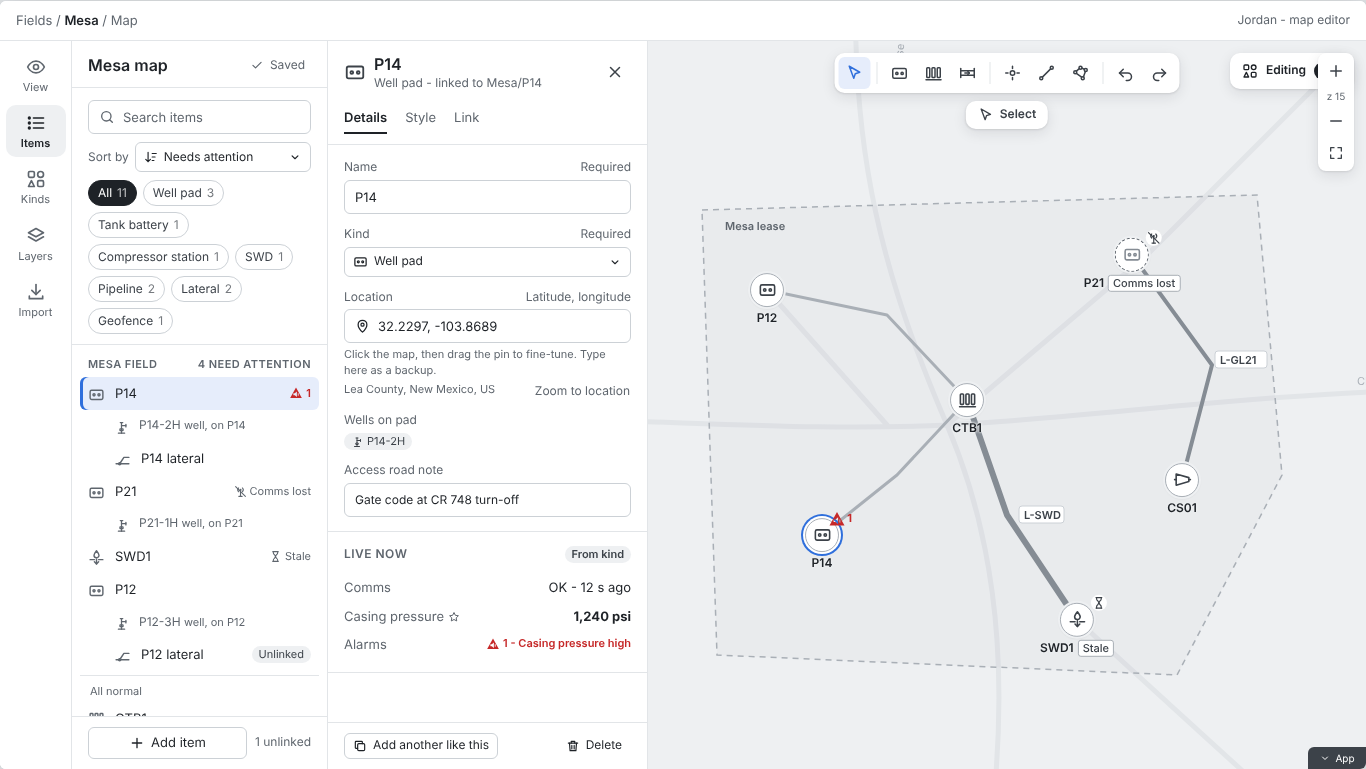
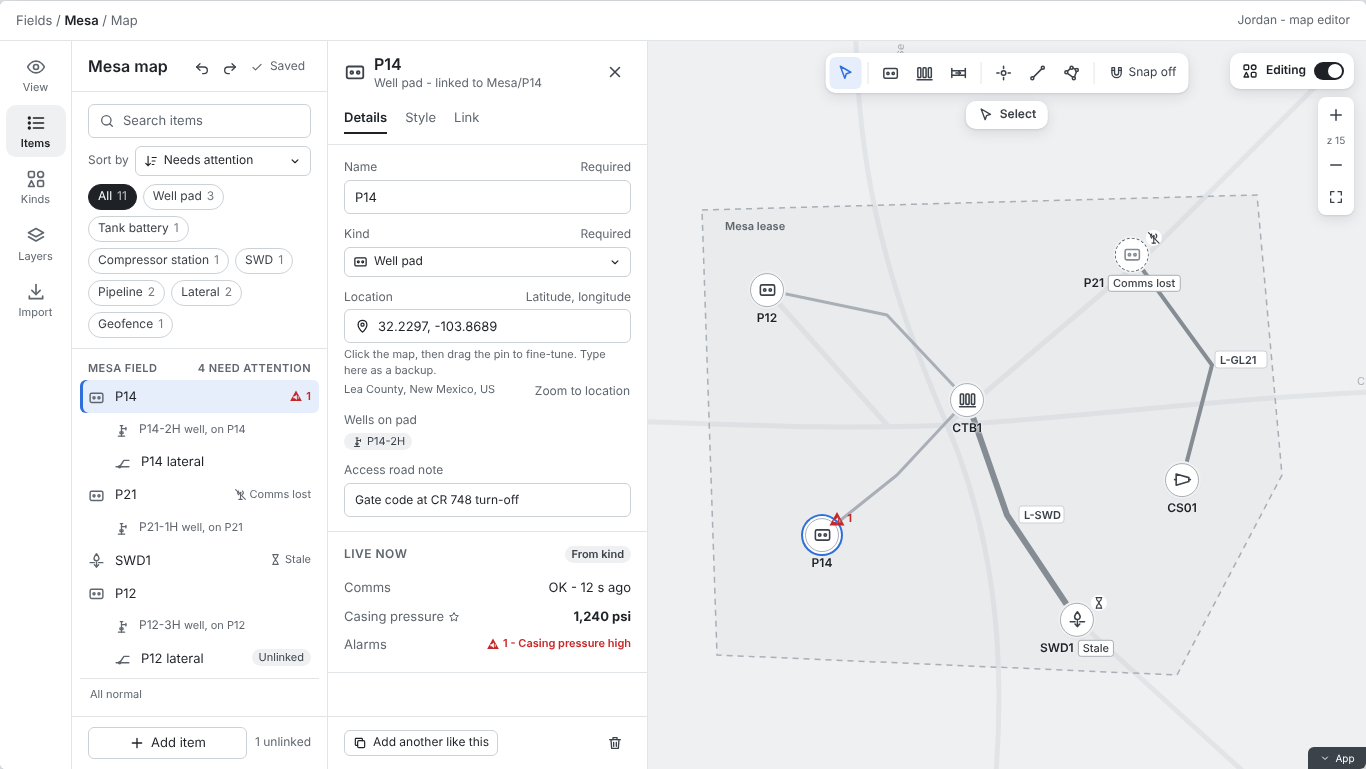
UX workshop: editor layout directions updated with the latest decisions (in progress)
Claude-Session: https://claude.ai/code/session_01DVAVWyHFvLKQeaRZ7Pw3zR

diff --git a/_bmad-output/initiative-flowmap/ux-map-studio/.working/editor-directions.html b/_bmad-output/initiative-flowmap/ux-map-studio/.working/editor-directions.html
@@ -66,6 +66,7 @@ button{font:inherit;color:inherit;cursor:pointer}
 /* ---------- shared bits ---------- */
 .ic{display:inline-block;vertical-align:middle;flex:none}
 .btn{display:inline-flex;align-items:center;gap:6px;height:32px;padding:0 12px;border-radius:6px;border:1px solid var(--neutral-40);background:var(--neutral-10)}
+.btn{white-space:nowrap}
 .btn:hover{background:var(--neutral-20)}
 .btn.pri{background:var(--callToAction);border-color:var(--callToAction);color:var(--neutral-10)}
 .btn.ghost{border-color:transparent;background:transparent}
@@ -108,6 +109,9 @@ button{font:inherit;color:inherit;cursor:pointer}
 .ph h3{margin:0;font-size:16px;font-weight:600}
 .pbody{flex:1;overflow:auto;min-height:0}
 .pfoot{padding:10px 16px;border-top:1px solid var(--neutral-30);display:flex;gap:8px;align-items:center}
+.panel.right .pfoot{padding-right:76px} /* keep the App Bar toggle corner clear */
+.ph h3{white-space:nowrap}
+.ibtn{white-space:nowrap}
 .tabs{display:flex;gap:18px;margin-top:10px}
 .tabs button{border:0;background:none;padding:6px 0;color:var(--neutral-70);border-bottom:2px solid transparent}
 .tabs button.on{color:var(--label);font-weight:600;border-bottom-color:var(--neutral-90)}
@@ -150,6 +154,7 @@ button{font:inherit;color:inherit;cursor:pointer}
 .strip .div{height:1px;width:22px;background:var(--neutral-30);margin:4px auto}
 .tr{position:absolute;top:12px;right:12px;display:flex;flex-direction:column;align-items:flex-end;gap:8px;z-index:6}
 .editsw{display:flex;align-items:center;gap:8px;height:36px;padding:0 10px 0 12px;font-weight:600;font-size:12px;border:0}
+.tr .float{position:relative}
 .zoom{display:flex;flex-direction:column;align-items:center;padding:2px;border-radius:8px}
 .zoom .zl{font-size:10px;color:var(--neutral-70);padding:2px 0}
 .search{top:12px;left:12px;width:300px;display:flex;align-items:center;gap:8px;height:40px;padding:0 12px;color:var(--neutral-70)}
@@ -272,7 +277,7 @@ var ITEMS = [
 function item(id){for(var i=0;i<ITEMS.length;i++)if(ITEMS[i].id===id)return ITEMS[i];return null;}
 
 /* ---------- state ---------- */
-var S = {dir:'A',w:1440,edit:true,rail:'items',sel:'P14',tab:'details',tool:'select',drawing:false,save:'saved',filter:'all',zoom:15,popup:'P14',panel:true,kindSel:'pad',sort:'attention',sortOpen:false,drawKind:'pipe',newN:0,conflictOpen:false,toast:false,legend:true};
+var S = {dir:'A',w:1440,edit:true,rail:'items',sel:'P14',tab:'details',tool:'select',drawing:false,save:'saved',filter:'all',zoom:15,popup:'P14',panel:true,kindSel:'pad',snap:false,recent:false,sort:'attention',sortOpen:false,drawKind:'pipe',newN:0,conflictOpen:false,toast:false,legend:true};
 var DIRS = {
   A:{name:'Direction A - Docked studio',sum:'Atlist-like: a rail of modes, a docked list and a docked properties panel, the map on the right.',
      why:'Everything an editor needs stays on screen at once: modes on the rail, the field list, and the selected item. It reads as a finished studio rather than tools bolted onto a map, which answers the "cobbled together" complaint most directly. The cost is map width: at 1366 the map keeps about half the component.'},
@@ -291,9 +296,27 @@ function stBadge(it){
   return '';
 }
 function saveEl(){
-  if(S.save==='saving')return '<button class="save" data-act="save"><span class="spin"></span>Saving...</button>';
+  if(S.save==='saving')return '<button class="save" data-act="recent"><span class="spin"></span>Saving...</button>';
   if(S.save==='conflict')return '<button class="save conf" data-act="conflict">'+ic('warn',14)+'Not saved - conflict with Sam\'s change</button>';
-  return '<button class="save" data-act="save" title="Edits save as you go">'+ic('check',14)+'Saved</button>';
+  return '<button class="save" data-act="recent" title="Edits save as you go - open Recent changes">'+ic('check',14)+'Saved</button>';
+}
+function undoRedo(){
+  return '<button class="ibtn" style="width:28px;height:28px" title="Undo: edit 3 pads (Ctrl+Z)" data-act="nop">'+ic('undo',16)+'</button><button class="ibtn" style="width:28px;height:28px" title="Redo (Ctrl+Shift+Z)" data-act="nop">'+ic('redo',16)+'</button>';
+}
+function saveCluster(){return '<span style="display:inline-flex;align-items:center;gap:0">'+undoRedo()+saveEl()+'</span>';}
+var RECENT=[
+  ['You','Today 10:44','Edited 3 well pads in one change: Gas rate switched on',1],
+  ['Sam','Today 10:42','Moved P14 about 40 m north',0],
+  ['You','Today 10:31','Unlinked P12 lateral from Mesa/P12-LAT',0],
+  ['You','Today 08:05','Moved P21 12 m east',0],
+  ['Sam','Yesterday 16:20','Added P12 lateral, ends snapped to P12 and CTB1',0]
+];
+function recentPanel(pos){
+  if(!S.recent)return '';
+  var h='<div class="float" style="position:absolute;z-index:20;width:340px;'+pos+'"><div style="display:flex;align-items:center;padding:12px 12px 8px 16px"><b style="flex:1">Recent changes</b><button class="ibtn" data-act="recent" title="Close">'+ic('x',16)+'</button></div>';
+  h+='<div style="margin:0 12px 8px;padding:8px 10px;border-radius:6px;background:var(--neutral-20);display:flex;align-items:center;gap:8px"><span style="flex:1" class="small">Next undo is one step: <b>Undo: edit 3 pads</b></span><button class="btn sm">'+ic('undo',14)+'Undo</button></div>';
+  RECENT.forEach(function(r){h+='<div style="display:flex;gap:10px;padding:8px 16px;border-top:1px solid var(--neutral-30);align-items:flex-start"><span style="width:26px;height:26px;border-radius:50%;background:var(--neutral-30);display:flex;align-items:center;justify-content:center;font-size:11px;font-weight:600;flex:none">'+r[0].charAt(0)+'</span><div style="flex:1;min-width:0"><div class="small">'+r[2]+'</div><div class="tiny muted">'+r[0]+' - '+r[1]+'</div></div><button class="btn sm ghost">Revert</button></div>';});
+  return h+'<div class="tiny muted" style="padding:8px 16px 12px;border-top:1px solid var(--neutral-30)">Revert undoes that one change, including someone else\'s, and saves like any edit.</div></div>';
 }
 function editSwitch(){
   return '<button class="float editsw" style="position:relative" data-act="edit">'+ic(S.edit?'kinds':'eye',16)+(S.edit?'Editing':'Edit map')+'<span class="sw2'+(S.edit?' on':'')+'"></span></button>';
@@ -312,7 +335,7 @@ function toolBtns(vertical){
   KTOOLS.forEach(function(x){h+=tb(x);});
   h+='<span class="div"></span>';
   GTOOLS.forEach(function(x){h+=tb(x);});
-  h+='<span class="div"></span><button class="ibtn" title="Undo (Ctrl+Z)" data-act="nop">'+ic('undo',18)+'</button><button class="ibtn" title="Redo (Ctrl+Shift+Z)" data-act="nop">'+ic('redo',18)+'</button>';
+  h+='<span class="div"></span><button class="ibtn'+(S.snap?' on':'')+'" data-act="snap" title="Snapping '+(S.snap?'on':'off')+' - click to turn '+(S.snap?'off':'on')+'" style="width:auto;padding:0 8px;gap:4px;font-size:12px">'+ic('magnet',16)+'Snap'+(vertical?'':' '+(S.snap?'on':'off'))+'</button>';
   return h;
 }
 function placing(){return S.tool==='pad'||S.tool==='ctb'||S.tool==='point';}
@@ -322,8 +345,8 @@ function modeLabel(){
   if(nm)return ic(S.tool==='point'?'point':KINDS[S.tool].icon,16)+'Add a '+nm+' - click the map, then drag to fine-tune';
   return {select:ic('cursor',16)+'Select',area:ic('region',16)+'Draw an area - kind picked after'}[S.tool]||'';
 }
-function toolbarTop(extra){
-  return '<div class="float toolbar">'+toolBtns()+(extra||'')+'</div><div class="float modepill" style="position:absolute;top:60px;left:50%;transform:translateX(-50%);height:28px;padding:0 12px">'+modeLabel()+'</div>';
+function toolbarTop(extra,off){off=off||0;
+  return '<div class="float toolbar" style="left:calc(50% + '+off+'px)">'+toolBtns()+(extra||'')+'</div><div class="float modepill" style="position:absolute;top:60px;left:calc(50% + '+off+'px);transform:translateX(-50%);height:28px;padding:0 12px">'+modeLabel()+'</div>';
 }
 function strip(){
   return '<div class="float strip">'+toolBtns(true)+'</div><div class="float modepill" style="position:absolute;top:12px;left:64px;height:34px;padding:0 12px">'+modeLabel()+'</div>';
@@ -355,11 +378,11 @@ function mapWorld(dx){
   });
   /* draft line while drawing */
   if(S.drawing){
-    h+='<path d="M575 580 L650 512" stroke="var(--neutral-80)" stroke-width="3" fill="none" stroke-dasharray="7 5"/>';
-    h+='<path d="M650 512 L712 452" stroke="var(--neutral-60)" stroke-width="2" fill="none" stroke-dasharray="3 5"/>';
-    h+='<rect x="569" y="574" width="12" height="12" fill="var(--neutral-90)" stroke="var(--neutral-10)" stroke-width="2"/>';
-    h+='<circle cx="650" cy="512" r="5" fill="var(--neutral-10)" stroke="var(--neutral-90)" stroke-width="2"/>';
-    h+='<circle cx="720" cy="445" r="26" fill="var(--cta-tint)" stroke="var(--callToAction)" stroke-width="2" stroke-dasharray="4 3"/>';
+    h+='<path d="M935 535 L840 505" stroke="var(--neutral-80)" stroke-width="3" fill="none" stroke-dasharray="7 5"/>';
+    h+='<path d="M840 505 L748 458" stroke="var(--neutral-60)" stroke-width="2" fill="none" stroke-dasharray="3 5"/>';
+    h+=S.snap?'<rect x="929" y="529" width="12" height="12" fill="var(--neutral-90)" stroke="var(--neutral-10)" stroke-width="2"/>':'<circle cx="935" cy="535" r="6" fill="var(--neutral-10)" stroke="var(--neutral-90)" stroke-width="2"/>';
+    h+='<circle cx="840" cy="505" r="5" fill="var(--neutral-10)" stroke="var(--neutral-90)" stroke-width="2"/>';
+    if(S.snap)h+='<circle cx="720" cy="455" r="26" fill="var(--cta-tint)" stroke="var(--callToAction)" stroke-width="2" stroke-dasharray="4 3"/>';
   }
   h+='</svg>';
   /* sites */
@@ -379,7 +402,7 @@ function mapWorld(dx){
     }
   });
   var ni=S.edit&&item(S.sel);if(ni&&ni.isNew)h+='<div class="snaphint" style="left:'+ni.x+'px;top:'+(ni.y-4)+'px">'+ic('pin',12)+' Drag to fine-tune, or type latitude and longitude</div>';
-  if(S.drawing)h+='<div class="snaphint" style="left:720px;top:445px">'+ic('magnet',12)+' Snap to CTB1 - click to connect</div>';
+  if(S.drawing&&S.snap)h+='<div class="snaphint" style="left:735px;top:445px">'+ic('magnet',12)+' Snap to CTB1 - click to connect</div>';
   if(!S.edit&&S.popup)h+=popup(item(S.popup));
   return '<div class="world" style="transform:translate(calc(-50% + '+(dx||0)+'px),-50%)">'+h+'</div>';
 }
@@ -404,18 +427,18 @@ function legend(){
    '<div class="li"><svg width="16" height="8"><path d="M0 4h16" stroke="var(--neutral-60)" stroke-width="4"/></svg>Pipeline, weight by size</div>'+
    '<div class="tog"><span style="display:flex;gap:5px;align-items:center"><span class="check on">'+ic('check',11)+'</span>Lines</span><span style="display:flex;gap:5px;align-items:center"><span class="check on">'+ic('check',11)+'</span>Names</span></div><div class="tiny muted" style="margin-top:4px">Below zoom 14 sites show as dots</div></div>';
 }
-function drawBar(){
+function drawBar(off){
   var pk=S.tool==='pipe';
-  return '<div class="float drawbar"><span style="display:flex;gap:6px;align-items:center;font-weight:600">'+ic(pk?'pipeline':'line',16)+(pk?'New pipeline':'New line')+'</span>'+
+  return '<div class="float drawbar" style="left:calc(50% + '+off+'px)"><span style="display:flex;gap:6px;align-items:center;font-weight:600">'+ic(pk?'pipeline':'line',16)+(pk?'New pipeline':'New line')+'</span>'+
    (pk?'':'<span class="tag">Kind picked after Finish</span>')+
-   '<span class="muted small">2 points - 0.6 km - start snapped to P14</span>'+
-   '<span class="tag">'+ic('magnet',12)+'Snapping on</span>'+
+   '<span class="muted small">2 points - 0.7 km - start '+(S.snap?'snapped to CS01':'floating')+'</span>'+
+   '<span class="tag'+(S.snap?' ovr':'')+'">'+ic('magnet',12)+'Snapping '+(S.snap?'on':'off')+'</span>'+
    '<span class="muted tiny">Double-click or Enter to finish</span>'+
    '<button class="btn sm" data-act="dcancel">Cancel <span class="muted tiny">Esc</span></button><button class="btn sm pri" data-act="dfinish">Finish</button></div>';
 }
-function overlays(){
+function overlays(off){off=off||0;
   var h='';
-  if(S.drawing)h+=drawBar();
+  if(S.drawing)h+=drawBar(off);
   if(S.toast)h+='<div class="toast">'+ic('check',16)+''+S.toastMsg+'<button class="btn sm" data-act="toastx">Undo</button></div>';
   return h;
 }
@@ -531,7 +554,7 @@ function detailsBody(it){
   }
   return h;
 }
-function detailsFoot(){return '<div class="pfoot"><button class="btn sm">'+ic('copy',14)+'Add another like this</button><button class="btn sm ghost" style="margin-left:auto">'+ic('trash',14)+'Delete</button></div>';}
+function detailsFoot(){return '<div class="pfoot"><button class="btn sm">'+ic('copy',14)+'Add another like this</button><button class="ibtn" style="margin-left:auto" title="Delete (no confirmation, Ctrl+Z undoes)">'+ic('trash',16)+'</button></div>';}
 
 function kindsList(){
   var h='<div style="padding:12px 16px 4px" class="small muted">Setup applies to every item of a kind. Items can override.</div><div class="grp">';
@@ -548,12 +571,6 @@ function kindBody(){
   var h='<div class="sect"><h4>Icon</h4><div style="display:flex;gap:8px">';
   ['well-pad','wellhead','point'].forEach(function(n,i){h+='<span class="pv" style="width:auto"><span class="disc" style="'+(i===0?'box-shadow:0 0 0 2px var(--neutral-10),0 0 0 4px var(--neutral-90)':'')+'">'+ic(n,19)+'</span></span>';});
   h+='</div><div class="tiny muted" style="margin-top:6px">From zoom 14 the icon, below a neutral dot. Label rank 2 of 7.</div></div>';
-  h+='<div class="sect"><h4>Key values <span class="tag">Up to 4</span></h4>';
-  [['Comms','{asset.path}/Heartbeat',1,0],['Casing pressure','{asset.path}/CasingPressure',1,1],['Tubing pressure','{asset.path}/TubingPressure',1,0],['Gas rate','{asset.path}/GasRate',0,0]].forEach(function(r){
-    h+='<div class="kv"><div style="min-width:0"><div style="display:flex;gap:4px;align-items:center">'+r[0]+(r[3]?' <span class="tag">'+ic('star',10)+'Icon value</span>':'')+'</div><div class="tiny muted" style="font-family:ui-monospace,monospace">'+r[1]+'</div></div><span class="sw2'+(r[2]?' on':'')+'"></span></div>';
-  });
-  h+='<button class="btn sm" style="margin-top:6px">'+ic('tag',14)+'Browse tags</button><div class="tiny muted" style="margin-top:6px">Resolves for 3 of 3 items.</div></div>';
-  h+='<div class="sect"><h4>Popup parts</h4>'+[['Name and kind',1],['Comms',1],['Key values',1],['Alarm summary and View alarms',1],['Open pad page',1],['Custom view',0]].map(function(p){return '<div class="kv" style="justify-content:flex-start;gap:8px"><span class="check'+(p[1]?' on':'')+'">'+(p[1]?ic('check',11):'')+'</span>'+p[0]+'</div>';}).join('')+'</div>';
   h+='<div class="sect"><h4>Style rule</h4><div class="presets" style="margin-bottom:8px"><span class="on">States</span><span>Bands</span><span>Expression</span></div>';
   h+='<div class="field"><label>Value</label><div class="input val small" style="font-family:ui-monospace,monospace">{asset.path}/Status</div></div>';
   h+='<div class="tiny muted" style="display:grid;grid-template-columns:1fr 18px 1fr 64px;gap:8px"><span>When Status is</span><span></span><span>Use preset</span><span>Preview</span></div>';
@@ -561,6 +578,12 @@ function kindBody(){
     h+='<div class="rule"><span class="input val small" style="height:30px">'+r[0]+'</span><span class="muted">'+ic('chevr',14)+'</span><span class="sel-like">'+r[1]+ic('chev',14)+'</span>'+pvState(r[2],r[3])+'</div>';
   });
   h+='<button class="btn sm ghost" style="padding-left:0">'+ic('plus',14)+'Add a state</button><div class="note" style="margin-top:8px">Alarm wins over the rule. A stale value shows only as Stale. Attention has no hue: heavier outline plus the word.</div></div>';
+  h+='<div class="sect"><h4>Key values <span class="tag">Up to 4</span></h4>';
+  [['Comms','{asset.path}/Heartbeat',1,0],['Casing pressure','{asset.path}/CasingPressure',1,1],['Tubing pressure','{asset.path}/TubingPressure',1,0],['Gas rate','{asset.path}/GasRate',0,0]].forEach(function(r){
+    h+='<div class="kv"><div style="min-width:0"><div style="display:flex;gap:4px;align-items:center">'+r[0]+(r[3]?' <span class="tag">'+ic('star',10)+'Icon value</span>':'')+'</div><div class="tiny muted" style="font-family:ui-monospace,monospace">'+r[1]+'</div></div><span class="sw2'+(r[2]?' on':'')+'"></span></div>';
+  });
+  h+='<button class="btn sm" style="margin-top:6px">'+ic('tag',14)+'Browse tags</button><div class="tiny muted" style="margin-top:6px">Resolves for 3 of 3 items.</div></div>';
+  h+='<div class="sect"><h4>Popup parts</h4>'+[['Name and kind',1],['Comms',1],['Key values',1],['Alarm summary and View alarms',1],['Page link - pop-out icon in the header',1],['Custom view',0]].map(function(p){return '<div class="kv" style="justify-content:flex-start;gap:8px"><span class="check'+(p[1]?' on':'')+'">'+(p[1]?ic('check',11):'')+'</span>'+p[0]+'</div>';}).join('')+'</div>';
   return h;
 }
 function layersBody(){
@@ -586,7 +609,7 @@ function dirA(){
   var narrow=S.w<1400, lw=narrow?256:280, pw=narrow?320:340;
   var h=railEl(false);
   var list='', props='';
-  var head='<div class="ph"><div class="row"><h3 style="flex:1">Mesa map</h3>'+saveEl()+'</div></div>';
+  var head='<div class="ph"><div class="row"><h3 style="flex:1">Mesa map</h3>'+saveCluster()+'</div></div>';
   if(S.rail==='items'){list=head+'<div class="pbody">'+listBody()+'</div>'+listFoot();
     var it=item(S.sel); if(it)props=detailsHead(it,false,true)+'<div class="pbody">'+detailsBody(it)+'</div>'+detailsFoot();}
   else if(S.rail==='kinds'){list=head+'<div class="pbody">'+kindsList()+'</div>'; props=kindHead(false)+'<div class="pbody">'+kindBody()+'</div>';}
@@ -594,7 +617,7 @@ function dirA(){
   else {list=head+'<div class="pbody">'+importBody()+'</div>';}
   h+='<div class="panel" style="width:'+lw+'px">'+list+'</div>';
   if(props)h+='<div class="panel" style="width:'+pw+'px">'+props+'</div>';
-  h+='<div class="map">'+mapWorld(props?-60:0)+toolbarTop()+topRight(false)+overlays()+conflictCard('top:60px;left:16px')+'</div>';
+  h+='<div class="map">'+mapWorld(props?-60:0)+toolbarTop()+topRight(false)+overlays()+conflictCard('top:60px;left:16px')+recentPanel('top:8px;left:8px')+'</div>';
   return h;
 }
 function dirB(){
@@ -604,22 +627,22 @@ function dirB(){
   else if(S.rail==='kinds'){pane=S.kindSel?kindHead(true)+'<div class="pbody">'+kindBody()+'</div>':titled('Kinds',kindsList());}
   else if(S.rail==='layers')pane=titled('Layers',layersBody(),'','<button class="ibtn" data-act="close">'+ic('x',18)+'</button>');
   else pane=titled('Import and export',importBody(),'','<button class="ibtn" data-act="close">'+ic('x',18)+'</button>');
-  h+='<div class="map">'+mapWorld(open?160:0)+toolbarTop('<span class="div"></span>'+saveEl())+topRight(false)+overlays()+conflictCard('top:60px;left:50%;transform:translateX(-50%)')+
+  h+='<div class="map">'+mapWorld(open?160:0)+toolbarTop('<span class="div"></span>'+saveCluster(),open?180:0)+topRight(false)+overlays(open?180:0)+conflictCard('top:100px;left:calc(50% + 180px);transform:translateX(-50%)')+recentPanel('top:100px;left:calc(50% + 180px);transform:translateX(-50%)')+
      (open?'':'<button class="float btn" style="left:12px;bottom:12px" data-act="open">'+ic('list',16)+'Items 11</button>')+'</div>';
   h+='<div class="slide'+(open?'':' closed')+'" style="left:56px">'+pane+'</div></div>';
   return h;
 }
 function dirC(){
-  var narrow=S.w<1400, lw=narrow?240:264, pw=narrow?300:330;
+  var narrow=S.w<1400, lw=narrow?256:272, pw=narrow?300:330;
   var tabs=[['items','Items'],['kinds','Kinds'],['layers','Layers'],['import','Import']];
-  var left='<div class="ph"><div class="row"><h3 style="flex:1">Mesa map</h3>'+saveEl()+'</div><div class="tabs">'+tabs.map(function(t){return '<button class="'+(S.rail===t[0]?'on':'')+'" data-act="rail" data-v="'+t[0]+'">'+t[1]+'</button>';}).join('')+'</div></div>';
+  var left='<div class="ph"><div class="row"><h3 style="flex:1">Mesa map</h3>'+saveCluster()+'</div><div class="tabs">'+tabs.map(function(t){return '<button class="'+(S.rail===t[0]?'on':'')+'" data-act="rail" data-v="'+t[0]+'">'+t[1]+'</button>';}).join('')+'</div></div>';
   var body={items:listBody(),kinds:kindsList(),layers:layersBody(),import:importBody()}[S.rail]||listBody();
   left+='<div class="pbody">'+body+'</div>'+(S.rail==='items'?listFoot():'');
   var right;
   if(S.rail==='kinds')right=kindHead(false)+'<div class="pbody">'+kindBody()+'</div>';
   else {var it=item(S.sel); right=it?detailsHead(it,false,false)+'<div class="pbody">'+detailsBody(it)+'</div>'+detailsFoot():
     '<div class="ph"><h3>Mesa</h3><div class="small muted">Nothing selected</div></div><div class="pbody"><div class="sect"><h4>Field</h4><div class="kv"><span class="k">Items</span><span>11</span></div><div class="kv"><span class="k">Unlinked</span><span>1 - P12 lateral</span></div><div class="kv"><span class="k">In alarm</span><span class="st a1">'+fi('a1u',14)+'1 - P14</span></div><div class="kv"><span class="k">Comms lost</span><span>1 - P21</span></div><div class="kv"><span class="k">Stale</span><span>1 - SWD1</span></div></div><div class="empty">Select an item on the map or in the list to edit it.</div></div>';}
-  return '<div class="panel" style="width:'+lw+'px">'+left+'</div><div class="map">'+mapWorld(0)+strip()+topRight(false)+overlays()+conflictCard('top:60px;left:70px')+'</div><div class="panel right" style="width:'+pw+'px">'+right+'</div>';
+  return '<div class="panel" style="width:'+lw+'px">'+left+'</div><div class="map">'+mapWorld(0)+strip()+topRight(false)+overlays()+conflictCard('top:60px;left:70px')+recentPanel('top:8px;left:8px')+'</div><div class="panel right" style="width:'+pw+'px">'+right+'</div>';
 }
 
 /* ---------- top-level render ---------- */
@@ -631,7 +654,7 @@ function render(){
   sw+='<span class="lbl">Save status demo</span><span class="seg">'+[['saved','Saved'],['saving','Saving...'],['conflict','Conflict']].map(function(x){return '<button class="'+(S.save===x[0]?'on':'')+'" data-act="setsave" data-v="'+x[0]+'">'+x[1]+'</button>';}).join('')+'</span>';
   document.getElementById('sw').innerHTML=sw;
   var d=DIRS[S.dir];
-  document.getElementById('rat').innerHTML='<h2>'+d.name+'</h2><p>'+d.why+'</p><div class="hint">Try: the Edit switch on the map; a site or line on the map or in the list; the Details, Style and Link tabs; the line tool (snapping hint and Finish or Cancel); Kinds for the Well pad setup; zoom out below 14 for dots; the save status to cycle Saved, Saving... and the conflict.</div>';
+  document.getElementById('rat').innerHTML='<h2>'+d.name+'</h2><p>'+d.why+'</p><div class="hint">Try: the Edit switch on the map; Sort by in the list; a site or line on the map or in the list; the Details, Style and Link tabs; the Pipeline or Line tool (Snap is off by default, the demo turns it on; snapping hint and Finish or Cancel); a well pad tool then click the map and drag the new pin; Kinds for the Well pad setup; zoom out below 14 for dots; Saved to open Recent changes with Revert; the demo buttons above for Saving... and the conflict.</div>';
   var fr=document.getElementById('frame');
   fr.style.width=S.w+'px'; fr.style.height=(S.w===1440?900:768)+'px';
   var comp=S.edit?(S.dir==='A'?dirA():S.dir==='B'?dirB():dirC()):viewMap();
@@ -647,7 +670,7 @@ document.addEventListener('click',function(e){
     case 'w':S.w=+v;break;
     case 'edit':S.edit=!S.edit;S.drawing=false;if(S.edit&&S.rail==='view')S.rail='items';break;
     case 'setedit':S.edit=v==='1';if(S.edit&&S.rail==='view')S.rail='items';break;
-    case 'setsave':S.save=v;S.conflictOpen=v==='conflict';break;
+    case 'setsave':S.save=v;S.conflictOpen=v==='conflict';S.recent=false;break;
     case 'rail':if(v==='view'){S.edit=false;S.rail='items';}else{S.rail=v;S.panel=true;if(v==='kinds'&&S.dir==='B')S.kindSel=null;}S.drawing=false;break;
     case 'sel':if(S.drawing)return; if(S.edit){S.sel=id;S.rail='items';S.panel=true;}else{S.popup=item(id)&&item(id).x?id:null;}break;
     case 'close':if(S.dir==='B'&&S.rail==='items'&&!S.sel){S.panel=false;}else if(S.dir==='B'&&S.rail!=='items'){S.panel=false;}else S.sel=null;break;
@@ -658,12 +681,14 @@ document.addEventListener('click',function(e){
     case 'filter':S.filter=v;break;
     case 'sortopen':S.sortOpen=!S.sortOpen;break;
     case 'sort':S.sort=v;S.sortOpen=false;break;
-    case 'tool':S.tool=v;S.drawing=v==='line'||v==='pipe';S.toast=false;break;
+    case 'tool':S.tool=v;S.drawing=v==='line'||v==='pipe';if(S.drawing)S.snap=true;S.toast=false;break;
     case 'dcancel':S.drawing=false;S.tool='select';break;
     case 'dfinish':S.toastMsg=S.tool==='pipe'?'Pipeline "L-3 (new)" added and saved':'Line added and saved - pick its kind in Details';S.drawing=false;S.tool='select';S.save='saving';S.toast=true;clearTimeout(timer);timer=setTimeout(function(){S.save='saved';render();},1200);break;
     case 'toastx':S.toast=false;break;
     case 'save':S.save=S.save==='saved'?'saving':'conflict';S.conflictOpen=S.save==='conflict';break;
-    case 'conflict':S.conflictOpen=!S.conflictOpen;break;
+    case 'snap':S.snap=!S.snap;break;
+    case 'recent':S.recent=!S.recent;S.conflictOpen=false;break;
+    case 'conflict':S.recent=false;S.conflictOpen=!S.conflictOpen;break;
     case 'resolve':S.save='saving';S.conflictOpen=false;clearTimeout(timer);timer=setTimeout(function(){S.save='saved';render();},1000);break;
     case 'zin':S.zoom=Math.min(18,S.zoom+1);break;
     case 'zout':S.zoom=Math.max(10,S.zoom-1);break;
